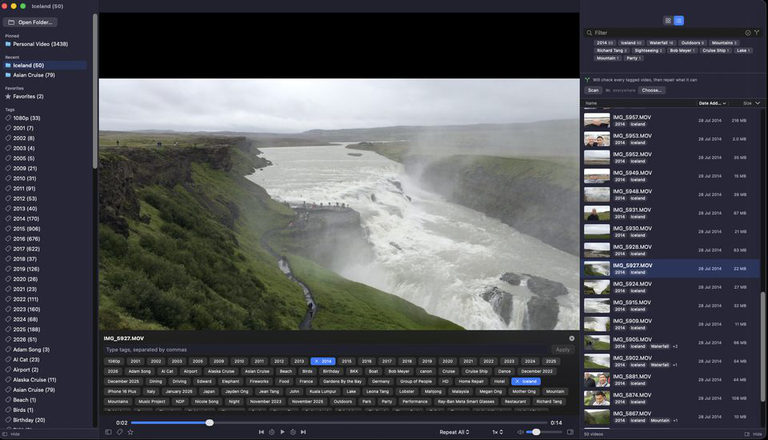
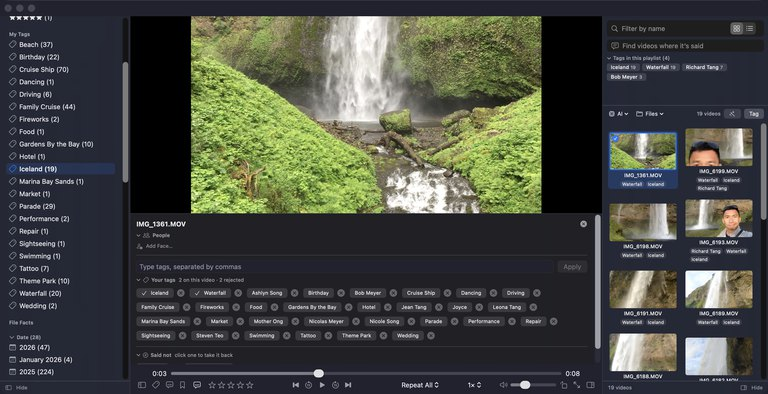
feat(site): retake the Mac screenshots in v1.1.22
New workspace and tagging shots, plus a transcript-search shot under
the AI cards on /mac. Image sizes updated to 768x394 on every page
that uses them.

diff --git a/mac.html b/mac.html
@@ -52,7 +52,7 @@
         </div>
         <p class="note">Free · macOS&nbsp;14 or later · Signed and notarized by Apple</p>
       </div>
-      <figure class="shot"><img src="/img/mac-workspace-768.jpg" alt="FolderVideoPlayer for Mac: the tag sidebar, the video playing, and the folder's videos shown as poster frames with their names" width="768" height="481" fetchpriority="high"></figure>
+      <figure class="shot"><img src="/img/mac-workspace-768.jpg" alt="FolderVideoPlayer for Mac: the tag sidebar, a waterfall video playing, and the Iceland tag's videos shown as poster frames with their tags" width="768" height="394" fetchpriority="high"></figure>
     </div>
   </section>
 
@@ -64,7 +64,7 @@
           <p>Press <kbd>⌘</kbd><kbd>T</kbd> and the tag panel opens under the picture. The video waits while you type, and each tag applies the moment you enter it. No save step. <kbd>Esc</kbd> closes it.</p>
           <p>Tags are saved to the <b>.FolderVideoPlayer</b> folder on your share, so the Apple&nbsp;TV and any other Mac see them too. The people you name, your transcripts and your file facts follow the same profile to your other Macs.</p>
         </div>
-        <figure class="shot"><img src="/img/mac-tagging-768.jpg" alt="The Mac tag panel open under the picture, with the tags 2014, Iceland and Waterfall applied" width="768" height="440" loading="lazy"></figure>
+        <figure class="shot"><img src="/img/mac-tagging-768.jpg" alt="The Mac tag panel open under the picture, with Iceland and Waterfall applied and the rest of the library's tags one click away" width="768" height="394" loading="lazy"></figure>
       </div>
     </div>
   </section>
@@ -157,6 +157,7 @@
           <p>Turn it on for a pinned folder and new videos get poster frames, dates and, if you like, AI analysis without being played. It pauses while you watch and on battery.</p>
         </div>
       </div>
+      <figure class="shot" style="max-width:768px;margin:64px auto 0"><img src="/img/mac-transcript-768.jpg" alt="Searching for “downtown” finds the one video where it is said; the line shows as a subtitle and in the Transcript panel" width="768" height="394" loading="lazy"></figure>
     </div>
   </section>
 

diff --git a/download.html b/download.html
@@ -65,7 +65,7 @@
       </article>
 
       <article class="plat" id="desktop">
-        <div class="shot"><img src="/img/mac-workspace-768.jpg" alt="FolderVideoPlayer for Mac with the tag sidebar, the video playing and poster frames" width="768" height="481" style="aspect-ratio:16/9;object-fit:cover;object-position:top"></div>
+        <div class="shot"><img src="/img/mac-workspace-768.jpg" alt="FolderVideoPlayer for Mac with the tag sidebar, the video playing and poster frames" width="768" height="394" style="aspect-ratio:16/9;object-fit:cover;object-position:top"></div>
         <div class="body">
           <h2 style="font-size:28px">Mac</h2>
           <p class="muted"><b>Free.</b> No account, no ads, nothing uploaded.</p>

diff --git a/index.html b/index.html
@@ -140,7 +140,7 @@
           <a class="btn btn-primary" href="/mac">Explore the Mac app</a>
         </div>
       </div>
-      <figure class="shot"><img src="/img/mac-workspace-768.jpg" alt="FolderVideoPlayer for Mac: tag sidebar, the video playing, and the folder's videos as poster frames" width="768" height="481" loading="lazy"></figure>
+      <figure class="shot"><img src="/img/mac-workspace-768.jpg" alt="FolderVideoPlayer for Mac: tag sidebar, the video playing, and the folder's videos as poster frames" width="768" height="394" loading="lazy"></figure>
     </div>
   </section>
 
